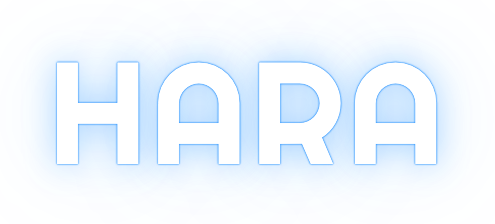
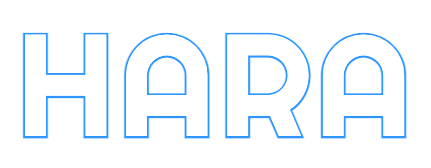
style(web): swap the wordmark glow for a crisp outline (HARA-6)

Changed region(s): [[0.0302, 0.1786, 0.9652, 0.8333], [0.8144, 0.1786, 0.9049, 0.2679]]

diff --git a/packages/email/src/Layout.ts b/packages/email/src/Layout.ts
@@ -66,7 +66,7 @@ function footer(): string
 {
     return `<tr><td style="padding:0 12px 12px;">
 <table role="presentation" width="100%" cellpadding="0" cellspacing="0" style="border-radius:24px;background:#050506;">
-<tr><td style="padding:26px 24px 2px;"><img src="${SITE_URL}/email/hara-white.png" width="157" height="71" alt="HARA" style="display:block;border:0;outline:none;"></td></tr>
+<tr><td style="padding:30px 30px 6px;"><img src="${SITE_URL}/email/hara-white.png" width="137" height="53" alt="HARA" style="display:block;border:0;outline:none;"></td></tr>
 <tr><td style="padding:16px 32px 32px;font:400 13px/1.6 ${FONT};color:#9a9aa3;">
 A capstone project from the Schulich School of Engineering at the
 <a href="${SCHULICH_URL}" style="color:#ffffff;text-decoration:none;white-space:nowrap;"><img src="${SITE_URL}/email/ucalgary-shield-white.png" width="13" height="16" alt="" style="border:0;outline:none;vertical-align:-3px;margin-right:4px;">University of Calgary</a>.<br>

diff --git a/apps/web/src/Theme.css b/apps/web/src/Theme.css
@@ -21,7 +21,7 @@
     --line-strong: rgb(22 22 26 / 16%);
     --display: "Righteous", var(--sans);
     --figure: "Nunito Variable", var(--sans);
-    --wordmark-glow: 0 0 1px rgb(10 132 255 / 85%), 0 0 1px rgb(10 132 255 / 85%), 0 0 16px rgb(10 132 255 / 34%), 0 0 48px rgb(10 132 255 / 18%);
+    --wordmark-stroke: 0.035em rgb(10 132 255 / 85%);
     --sans: "Figtree Variable", system-ui, sans-serif;
     --ease: cubic-bezier(0.22, 1, 0.36, 1);
     --radius-small: 12px;

diff --git a/apps/web/src/landing/Footer.module.css b/apps/web/src/landing/Footer.module.css
@@ -19,7 +19,8 @@
     font-size: clamp(48px, 13vw, 176px);
     line-height: 0.8;
     color: var(--white);
-    text-shadow: var(--wordmark-glow);
+    -webkit-text-stroke: var(--wordmark-stroke);
+    paint-order: stroke fill;
 }
 
 .row

diff --git a/apps/web/src/portal/Login.module.css b/apps/web/src/portal/Login.module.css
@@ -47,7 +47,8 @@
 {
     font-size: clamp(52px, 7.6vw, 124px);
     color: var(--white);
-    text-shadow: var(--wordmark-glow);
+    -webkit-text-stroke: var(--wordmark-stroke);
+    paint-order: stroke fill;
 }
 
 .portal

diff --git a/apps/web/src/landing/Hero.module.css b/apps/web/src/landing/Hero.module.css
@@ -82,7 +82,8 @@
     letter-spacing: 0;
     line-height: 1;
     color: var(--white);
-    text-shadow: var(--wordmark-glow);
+    -webkit-text-stroke: var(--wordmark-stroke);
+    paint-order: stroke fill;
 }
 
 .name
